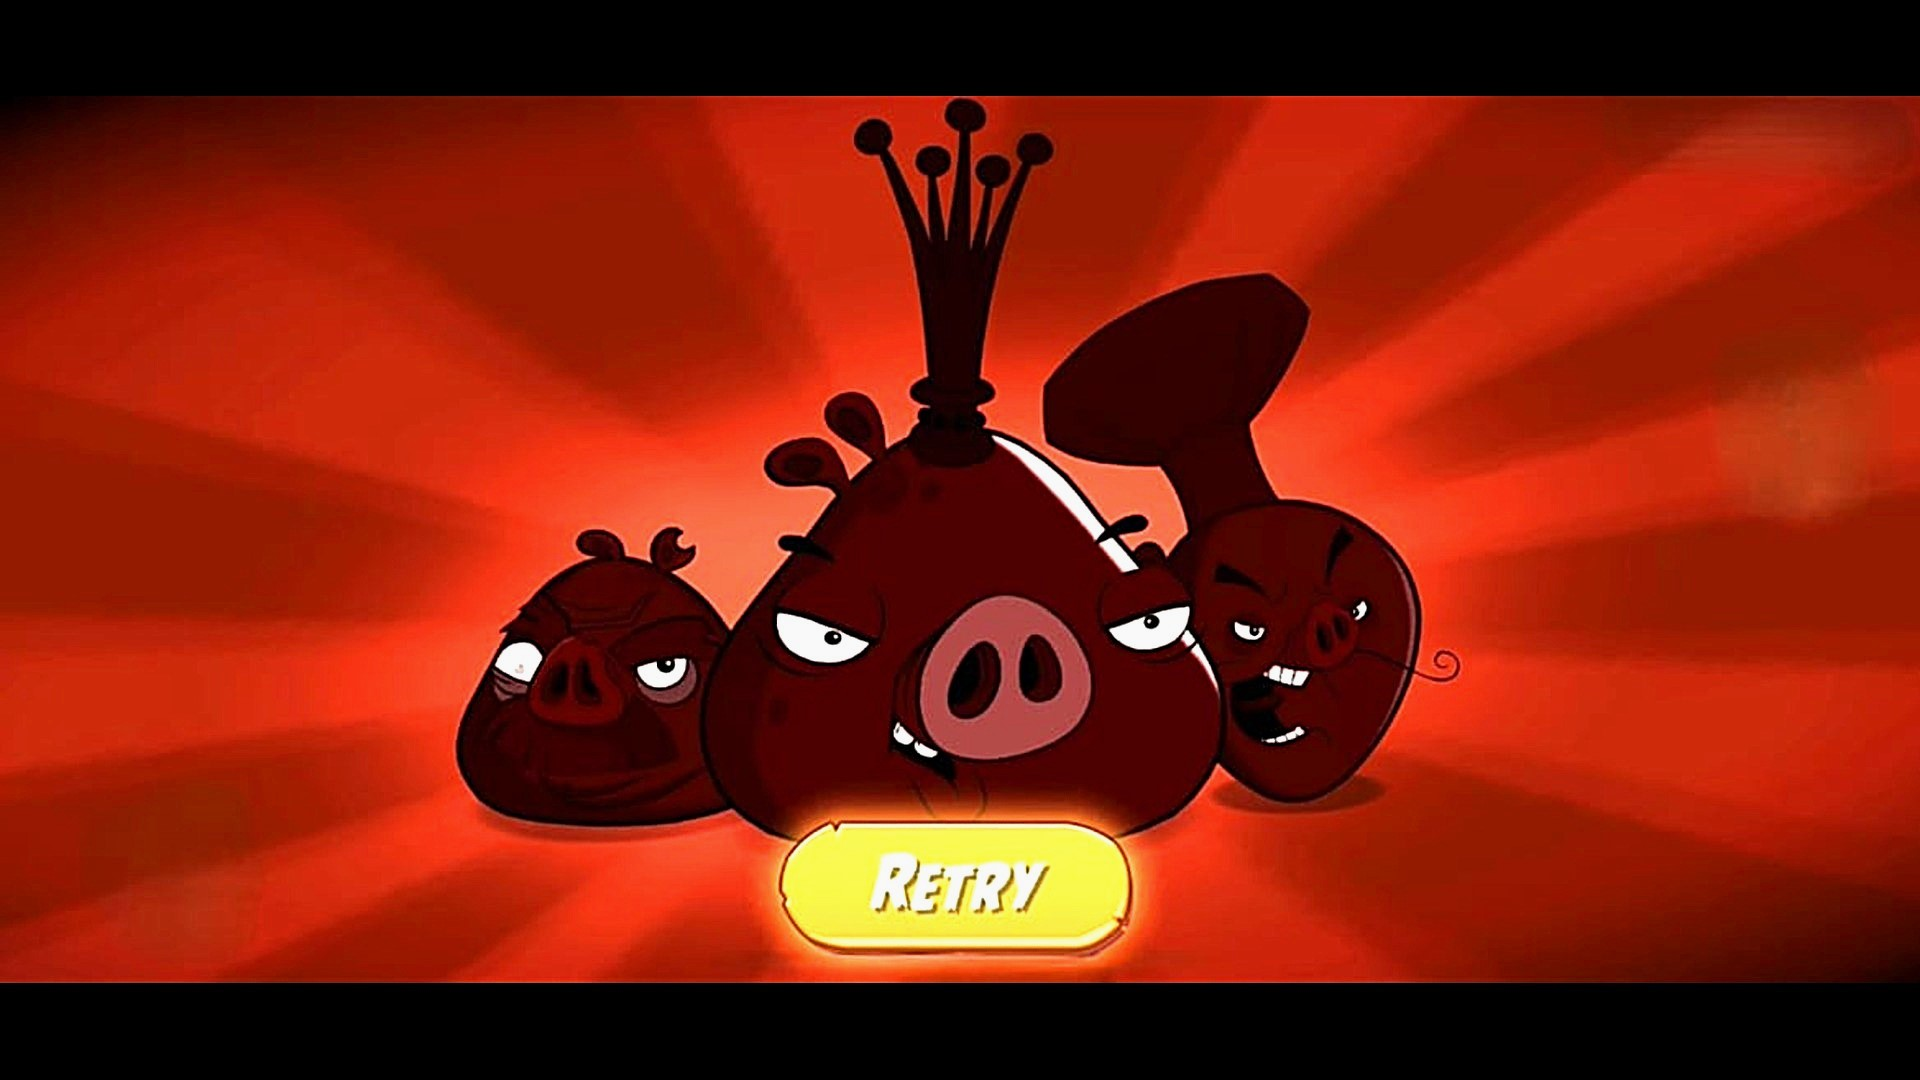
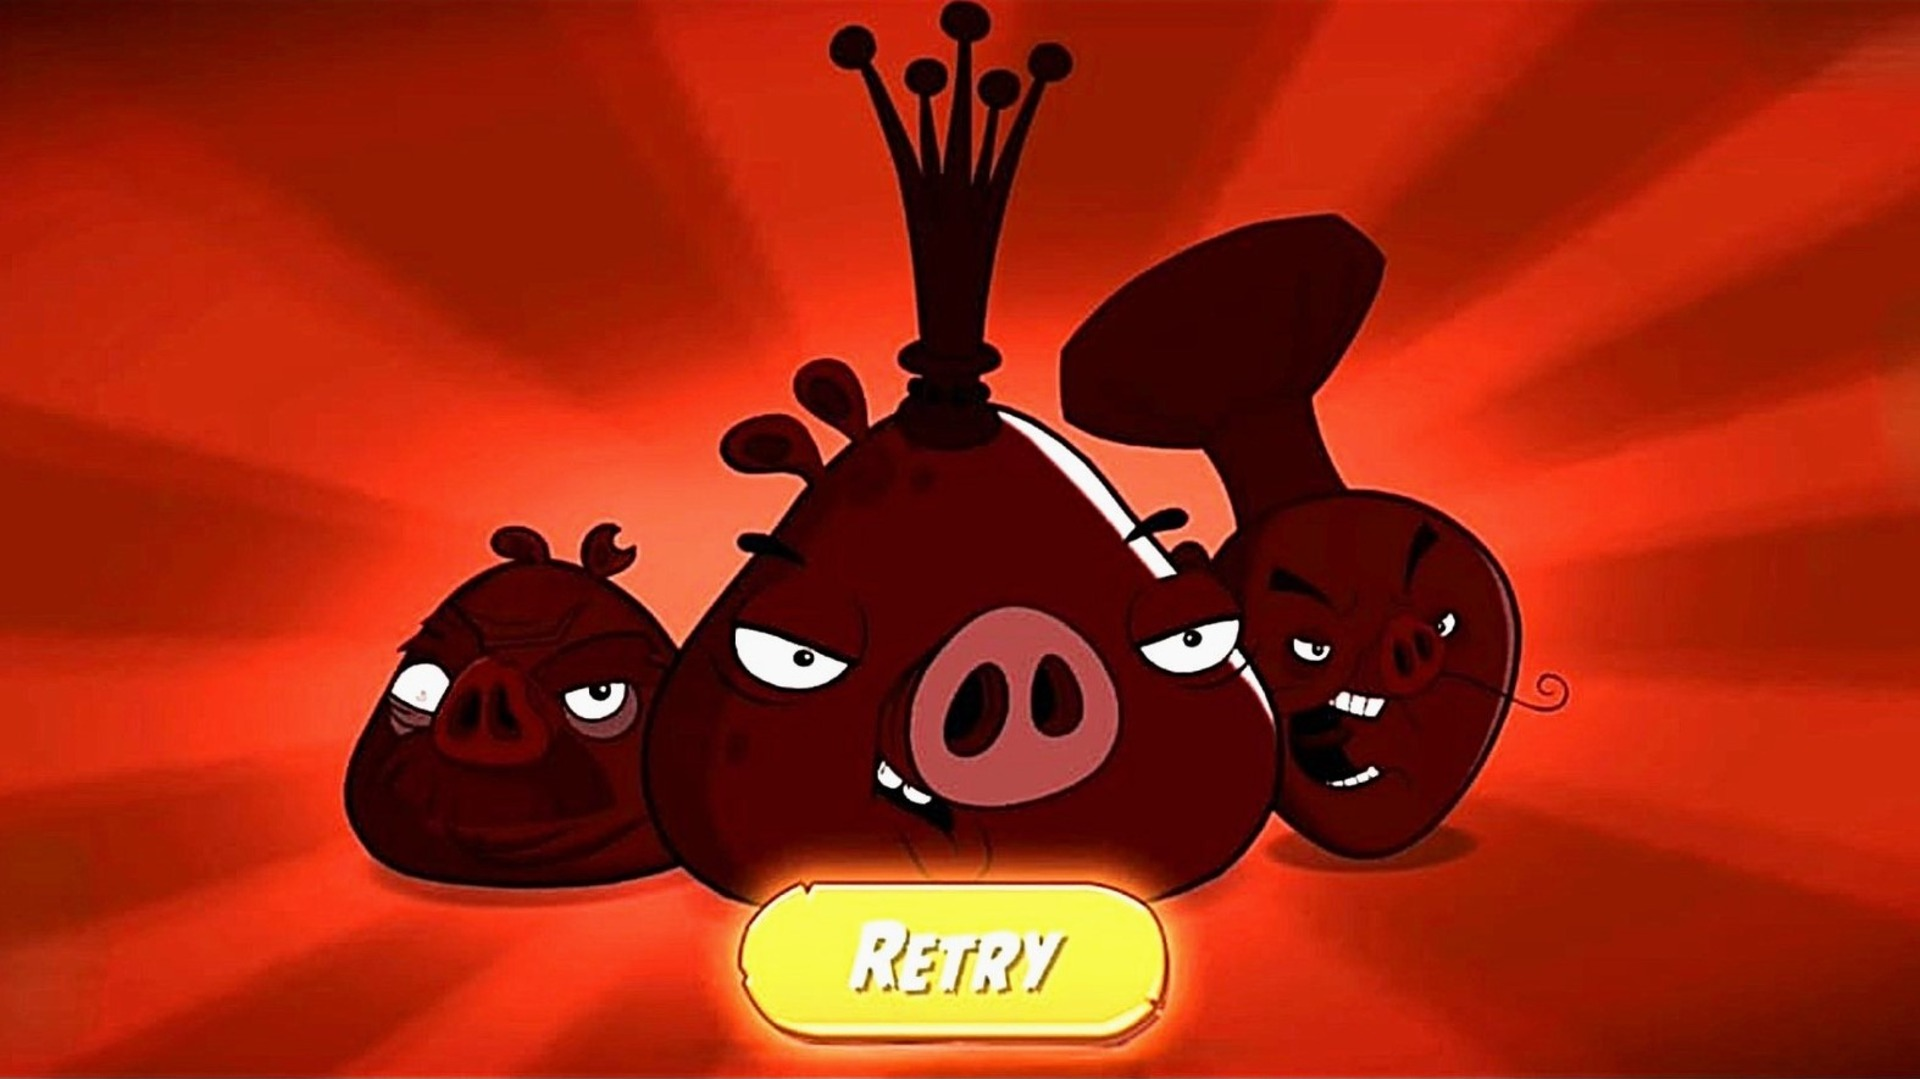
working on settings page

diff --git a/core/src/main/java/com/ap/angrybirds/Settings.java b/core/src/main/java/com/ap/angrybirds/Settings.java
@@ -18,7 +18,14 @@ public class Settings extends ScreenAdapter {
     Main main;
     private Texture Background;
     private Texture settingsBackground;
-    private Texture Background2;
+    private Texture sound;
+    private Texture music;
+    private Texture sound_word;
+    private Texture music_word;
+    private Texture BackToHomePage;
+    private Texture BackToLevelMenu;
+    private Texture blueBox;
+    //private Texture blueBox1;
 
     private OrthographicCamera camera;
     private Viewport viewport;
@@ -40,18 +47,31 @@ public class Settings extends ScreenAdapter {
 
         Background = new Texture("settingsBackground.jpg");
         settingsBackground = new Texture("settingBox.png");
+        sound = new Texture("sound.png");
+        music = new Texture("music.png");
+        sound_word = new Texture("soundWord.png");
+        music_word = new Texture("musicWord.png");
+        BackToHomePage = new Texture("BackToHomePage.png");
+        BackToLevelMenu = new Texture("BackToLevelMenu.png");
+        blueBox = new Texture("blueBox.png");
     }
 
     public void render(float delta){
         Gdx.gl.glClear(GL20.GL_COLOR_BUFFER_BIT);
         camera.update();
         batch.setProjectionMatrix(camera.combined);
-        ///
 
         batch.begin();
         batch.draw(Background, 0, 0);
-        //batch.draw(Background2, 0, 0);
         batch.draw(settingsBackground, 400, 80, 1200,1000);
+        batch.draw(music, 680, 660, 125,125);
+        batch.draw(sound, 870, 660, 125,125);
+        batch.draw(sound_word, 870, 620, 127,33);
+        batch.draw(music_word, 680, 620, 127,33);
+        batch.draw(blueBox, 810, 436, 385, 100);
+        batch.draw(blueBox, 810, 310, 385, 100);
+        batch.draw(BackToHomePage, 839, 450, 320,65);
+        batch.draw(BackToLevelMenu, 830, 320, 340,80);
 
         batch.end();
 

diff --git a/core/src/main/java/com/ap/angrybirds/LoseEndScreen.java b/core/src/main/java/com/ap/angrybirds/LoseEndScreen.java
@@ -9,11 +9,13 @@ import com.badlogic.gdx.math.Rectangle;
 import com.badlogic.gdx.math.Vector2;
 import com.badlogic.gdx.utils.viewport.FitViewport;
 import com.badlogic.gdx.utils.viewport.Viewport;
+
 public class LoseEndScreen extends ScreenAdapter {
     Main main;
     public LoseEndScreen(Main main) {
         this.main = main;
     }
+
     SpriteBatch batch;
     Texture background;
     Texture retry;
@@ -33,8 +35,8 @@ public class LoseEndScreen extends ScreenAdapter {
         background = new Texture("LosingPage.jpg");
         retry = new Texture("retry.png");
         back = new Texture("Back.png");
-        retryButton = new Rectangle(770, 120, 367, 150);
-        backButton = new Rectangle(80, 140, 140, 140);
+        retryButton = new Rectangle(730, 20, 450, 190);
+        backButton = new Rectangle(80, 470, 140, 140);
         camera = new OrthographicCamera();
         viewport = new FitViewport(worldWidth, worldHeight, camera);
         viewport.apply();
@@ -64,10 +66,11 @@ public class LoseEndScreen extends ScreenAdapter {
                 main.setScreen(new LevelPage(main));
             }
         }
+
+        System.out.println("X: "+ Gdx.input.getX() + " Y: " + Gdx.input.getY());
     }
     @Override
     public void resize(int width, int height) {
-        // Update the viewport to maintain aspect ratio
         viewport.update(width, height);
     }
     @Override
